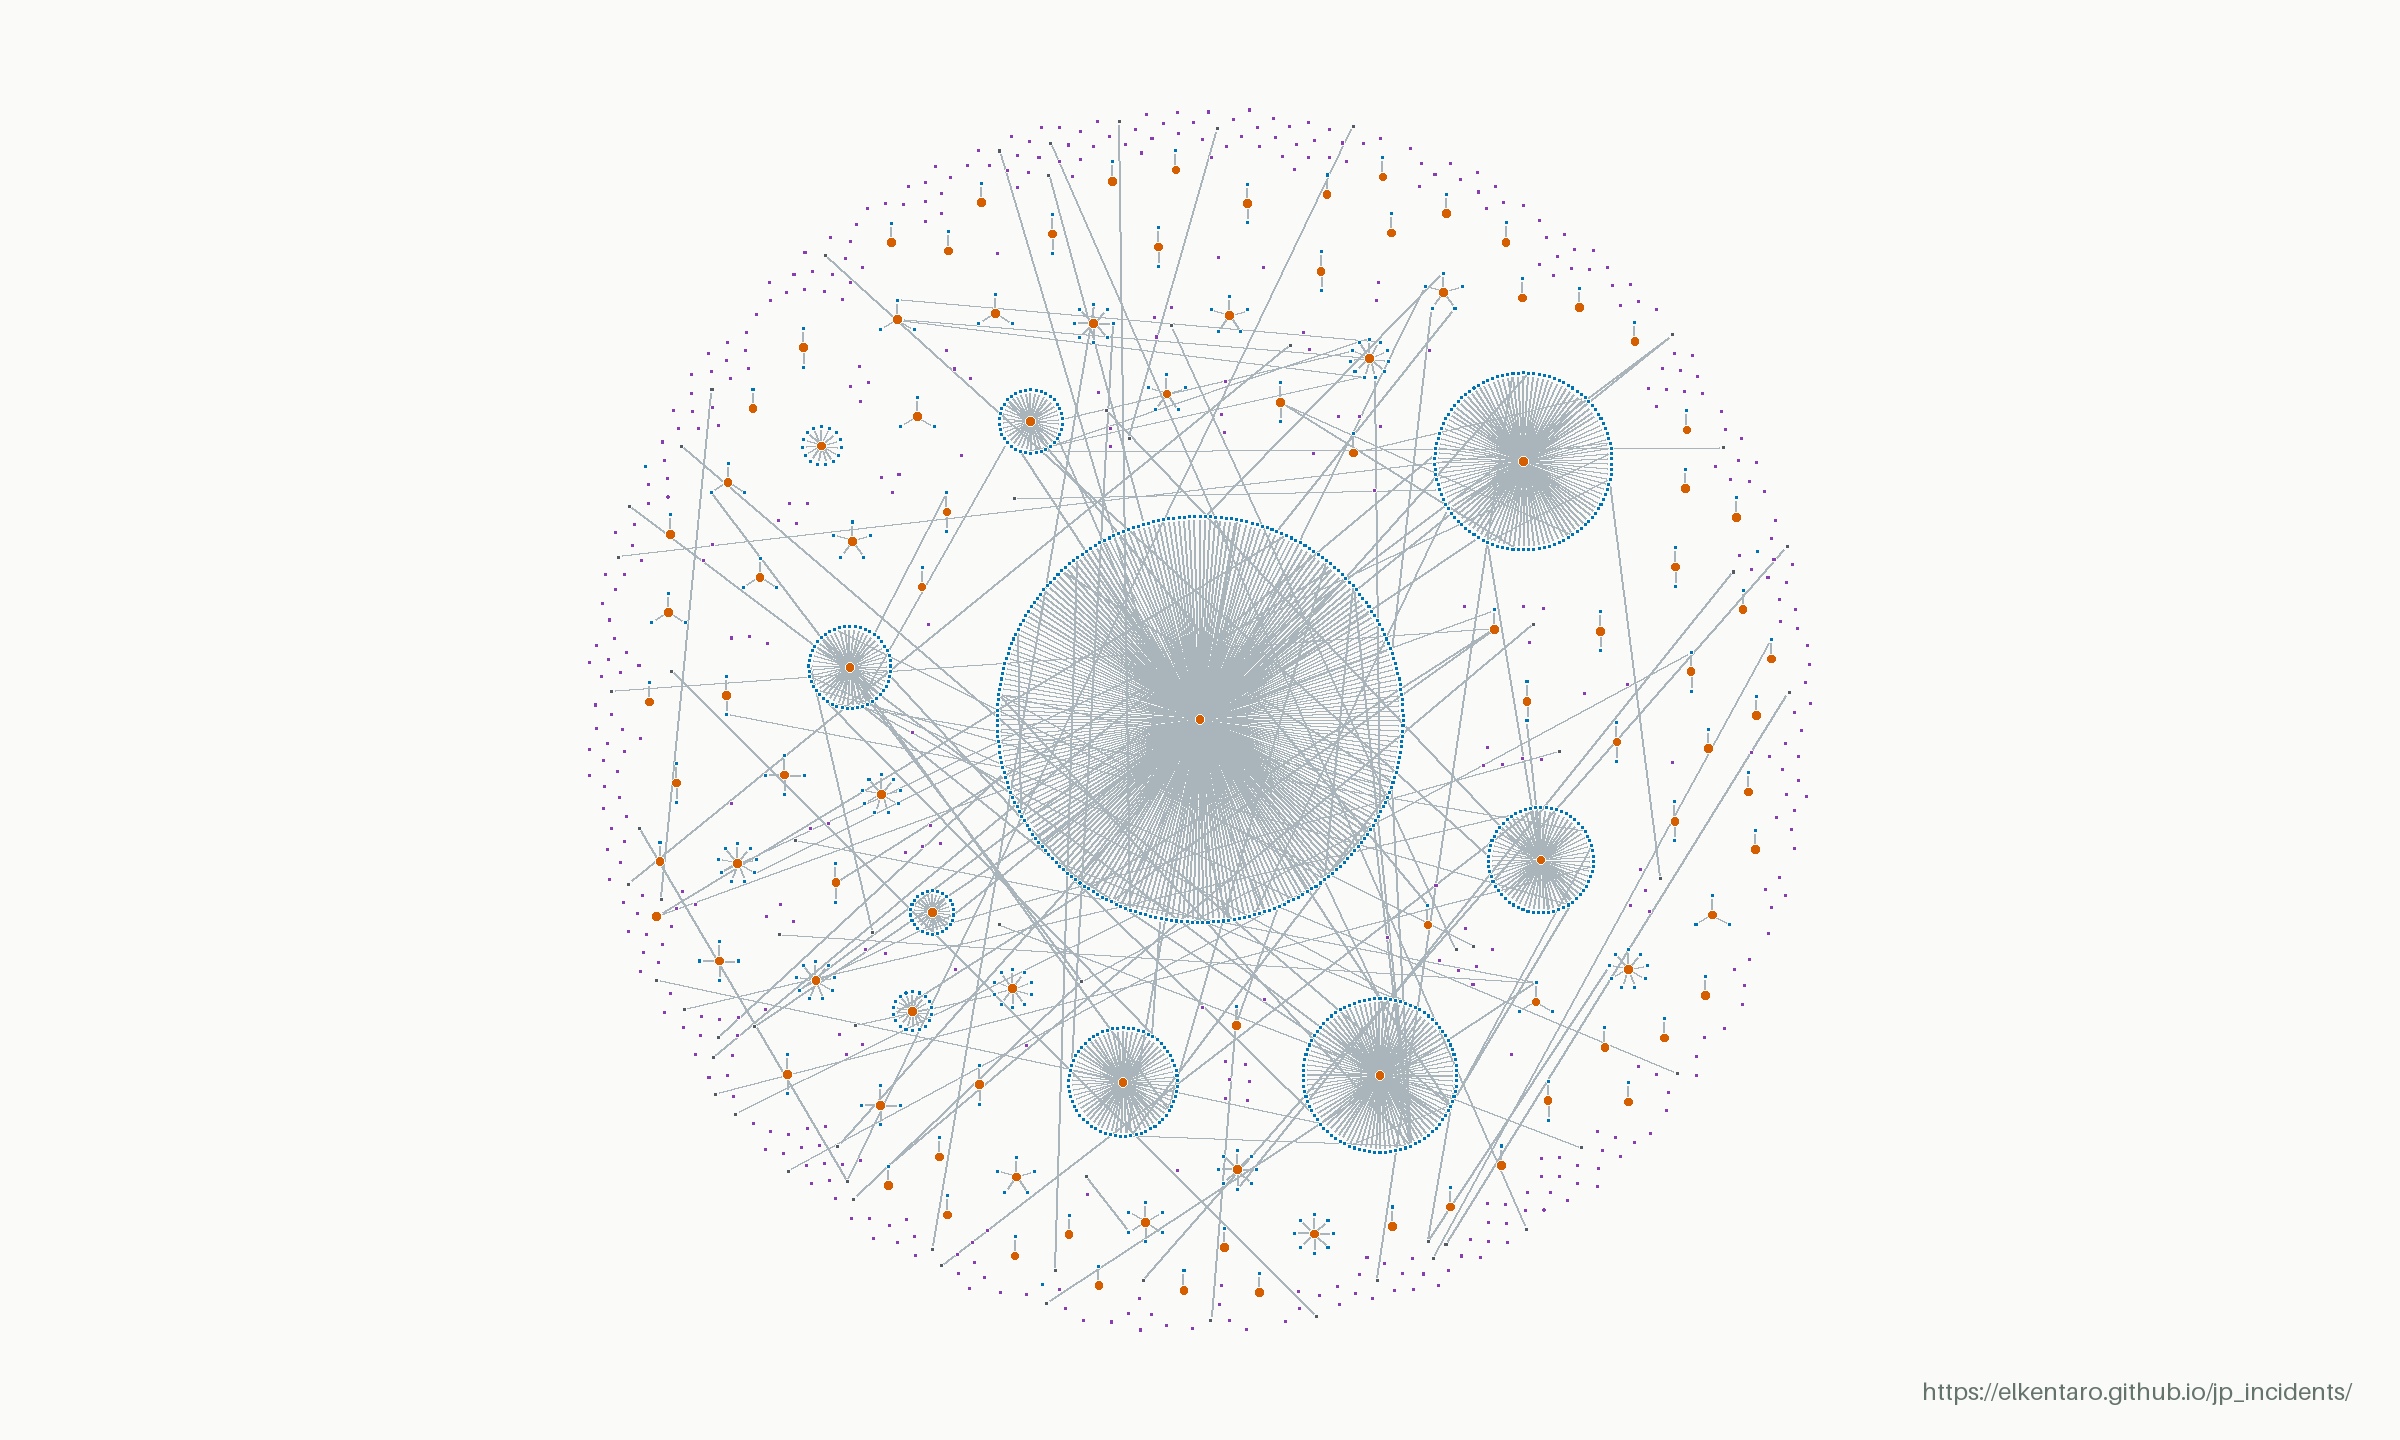
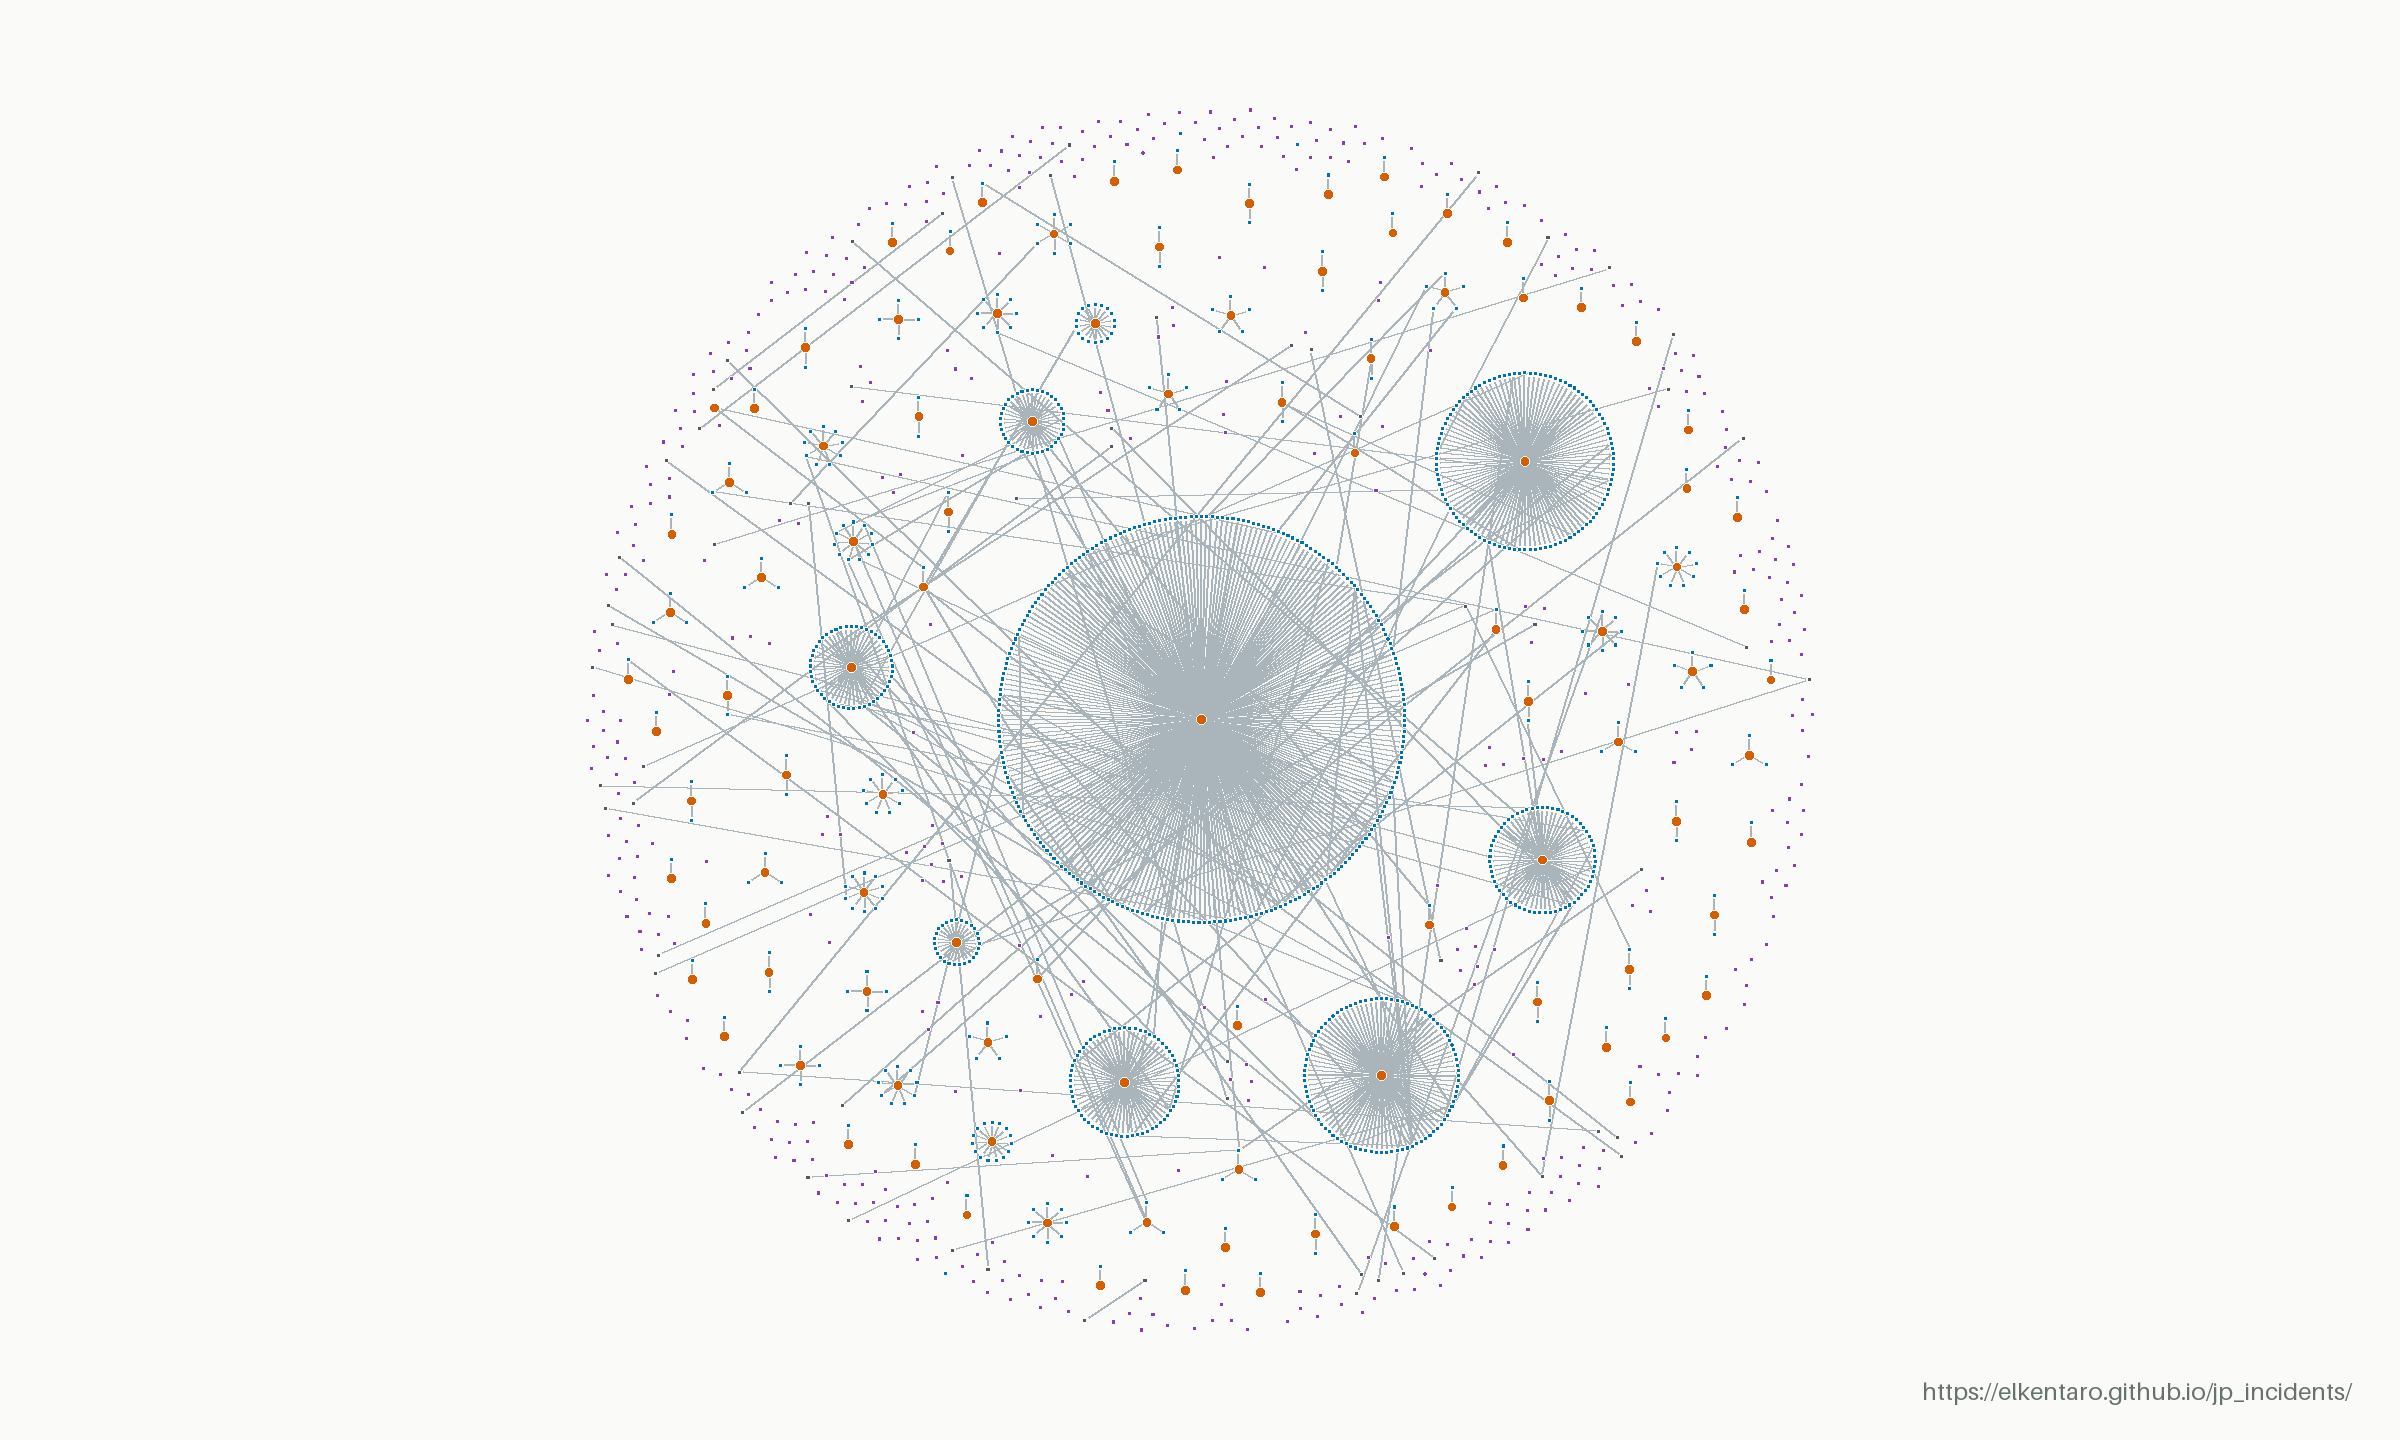
Update incident data (2026-11-24 07:17 UTC)

diff --git a/linkage.html b/linkage.html
@@ -32,17 +32,17 @@
     </section>
     <section class="direct-summary" aria-labelledby="direct-title">
       <dl class="direct-stats">
-        <div class="direct-total"><dt id="direct-title" data-copy="direct">Direct incidents</dt><dd id="direct-count">616</dd></div>
+        <div class="direct-total"><dt id="direct-title" data-copy="direct">Direct incidents</dt><dd id="direct-count">618</dd></div>
         <div><dt data-copy="directUpstream">Upstream incidents</dt><dd id="upstream-count">103</dd></div>
-        <div><dt data-copy="directStandalone">Standalone incidents</dt><dd id="standalone-count">513</dd></div>
+        <div><dt data-copy="directStandalone">Standalone incidents</dt><dd id="standalone-count">515</dd></div>
       </dl>
-      <p class="direct-excluded"><strong id="downstream-count">951</strong> <span data-copy="directExcluded">downstream records excluded, including incidents with both roles.</span></p>
+      <p class="direct-excluded"><strong id="downstream-count">952</strong> <span data-copy="directExcluded">downstream records excluded, including incidents with both roles.</span></p>
       <p class="direct-definition" data-copy="directDefinition">Direct incidents = upstream + standalone, based on recorded causal links. Standalone incidents have no upstream or downstream causal links, but may have other links, such as separate events at the same organization.</p>
     </section>
     <dl class="map-stats">
-      <div><dt data-copy="total">Incidents in snapshot</dt><dd>1567</dd></div>
-      <div><dt data-copy="linked">With recorded connections</dt><dd>1114</dd></div>
-      <div><dt data-copy="links">Recorded connections</dt><dd>1073</dd></div>
+      <div><dt data-copy="total">Incidents in snapshot</dt><dd>1570</dd></div>
+      <div><dt data-copy="linked">With recorded connections</dt><dd>1115</dd></div>
+      <div><dt data-copy="links">Recorded connections</dt><dd>1074</dd></div>
       <div><dt data-copy="networks">Connected networks</dt><dd>88</dd></div>
     </dl>
     <figure class="map-figure">
@@ -50,13 +50,13 @@
         <img src="data/linkage-map.png" width="2400" height="1440" alt="Anonymized incident map. Orange upstream hubs connect to blue downstream incidents; purple unlinked incidents appear throughout the same map without connecting lines." data-copy-alt="alt">
       </div>
       <figcaption>
-        <div class="map-caption-meta"><span><span data-copy="updated">Last updated</span>: <time datetime="2026-11-24T06:16:28.223023+00:00">2026-11-24 06:16 UTC</time></span><a href="data/linkage-map.png" target="_blank" rel="noopener" data-copy="open">Open full-resolution image ↗</a></div>
+        <div class="map-caption-meta"><span><span data-copy="updated">Last updated</span>: <time datetime="2026-11-24T07:16:31.998535+00:00">2026-11-24 07:16 UTC</time></span><a href="data/linkage-map.png" target="_blank" rel="noopener" data-copy="open">Open full-resolution image ↗</a></div>
         <div class="map-key-section">
           <strong id="map-key-title" data-copy="key">Key</strong>
           <ul class="map-key" aria-labelledby="map-key-title">
             <li><span class="key-dot upstream" aria-hidden="true"></span><span data-copy="keyUpstream">Upstream</span></li>
             <li><span class="key-dot downstream" aria-hidden="true"></span><span data-copy="keyDownstream">Downstream</span></li>
-            <li><span class="key-dot standalone" aria-hidden="true"></span><span data-copy="keyStandalone">Unlinked</span><span>(453)</span></li>
+            <li><span class="key-dot standalone" aria-hidden="true"></span><span data-copy="keyStandalone">Unlinked</span><span>(455)</span></li>
             <li><span class="key-dot both" aria-hidden="true"></span><span data-copy="keyBoth">Both roles</span></li>
             <li><span class="key-dot related" aria-hidden="true"></span><span data-copy="keyRelated">Other related</span></li>
             <li><span class="key-line" aria-hidden="true"></span><span data-copy="keyRelationship">Recorded relationship</span></li>
@@ -69,7 +69,7 @@
       <section><h2 data-copy="readingTitle">Reading the map</h2><p data-copy="reading">Orange marks upstream incidents, blue downstream incidents, and purple unlinked incidents with no recorded connection. Teal marks incidents with both upstream and downstream roles; charcoal marks other related incidents. A missing connection does not establish that two incidents are unrelated.</p></section>
       <section><h2 data-copy="snapshotTitle">About this snapshot</h2><p data-copy="snapshot">The static image is refreshed when published incidents or relationships change, and at least every 24 hours during normal publication. Larger upstream clusters have extra spacing to keep their victims apart. Names, incident IDs, source links and incident dates are omitted; the connection pattern is retained. It is an overview of recorded relationships, not a complete map of cyber incidents in Japan.</p></section>
     </div>
-    <p class="map-source"><span data-copy="sourceUpdated">Source data updated</span>: <time datetime="2026-11-24T06:16:28+00:00">2026-11-24T06:16:28+00:00</time> · <a href="./" data-copy="browse">Browse the incident index</a></p>
+    <p class="map-source"><span data-copy="sourceUpdated">Source data updated</span>: <time datetime="2026-11-24T07:16:31+00:00">2026-11-24T07:16:31+00:00</time> · <a href="./" data-copy="browse">Browse the incident index</a></p>
   </main>
   <footer><div class="shell footer-inner"><p data-copy="footer">Public reports. Recorded relationships. An anonymized overview.</p><a href="./" data-copy="back">Back to incidents</a></div></footer>
   <script src="linkage.js?v=20261107-spacing" defer></script>
